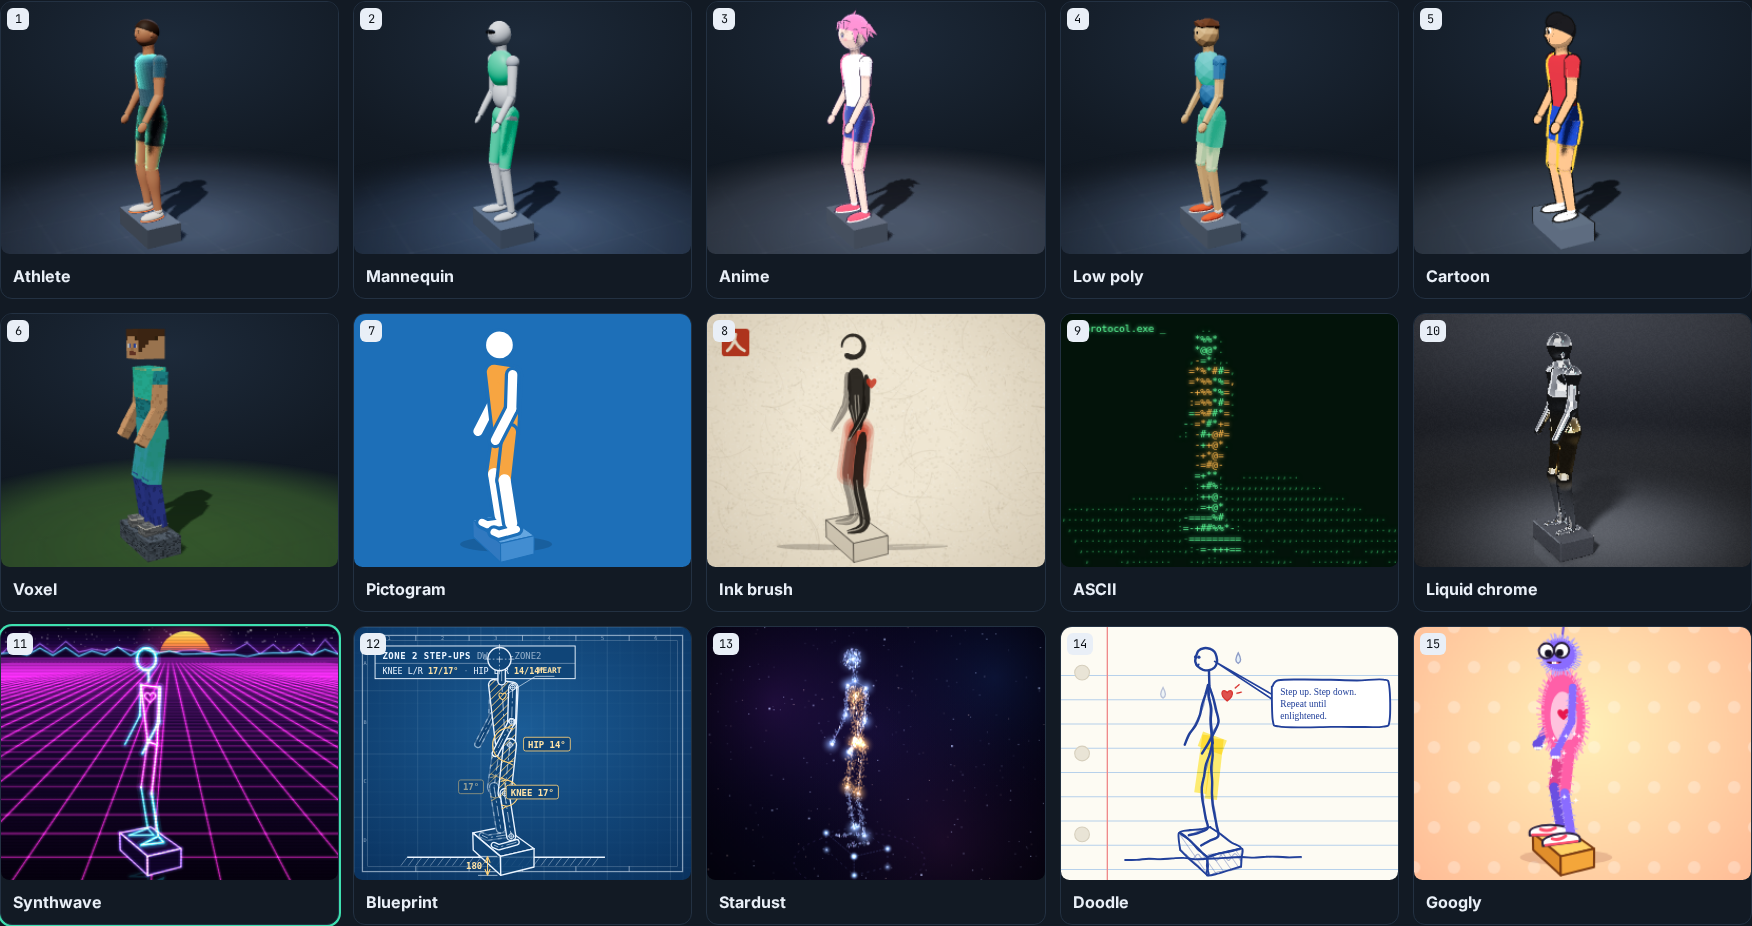
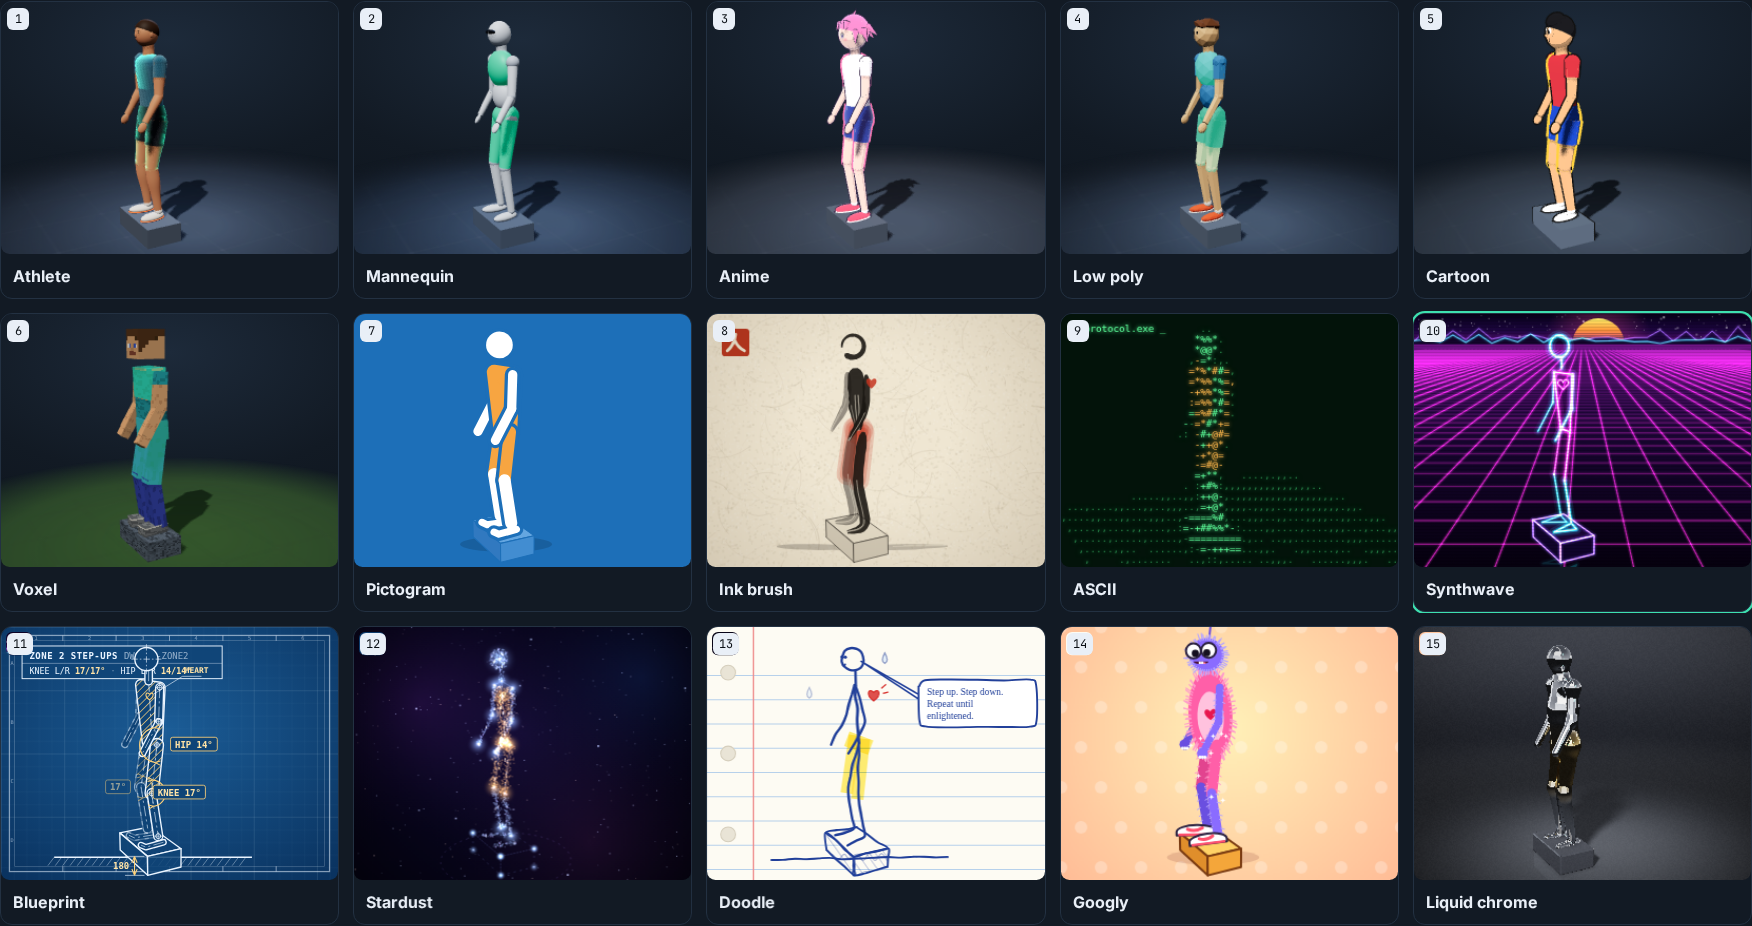
Move Liquid Chrome to the end

diff --git a/public/js/anim-styles.js b/public/js/anim-styles.js
@@ -21,12 +21,12 @@ export const ANIM_STYLES = [
   { id: "pictogram", name: "Pictogram", tech: "svg", after: "Otl Aicher's 1972 Munich Olympics pictograms", blurb: "A white sign figure on a blue tile: even bars for limbs, a floating round head, the worked muscles in orange. Drawn as SVG." },
   { id: "ink", name: "Ink brush", tech: "canvas", after: "Japanese sumi-e painting", blurb: "Brush strokes on rice paper that leave fading ink trails, an ensō circle for the head and red washes on the worked muscles. Drawn on a 2D canvas." },
   { id: "ascii", name: "ASCII", tech: "text", after: "Old green-screen terminals", blurb: "The figure typed out in characters on a glowing CRT, with a floor grid; the worked muscles in amber. Drawn as text." },
-  { id: "chrome", name: "Liquid chrome", tech: "shader", after: "Liquid-metal studio renders", blurb: "A mirror-finish body that flows like poured metal, reflecting the studio, the floor and itself; gold where the muscles work. Ray-marched in one WebGL shader." },
   { id: "synthwave", name: "Synthwave", tech: "canvas", after: "1980s retro-futurism", blurb: "Neon tubes on a scrolling grid under a striped sunset, mirrored on a wet floor; the worked muscles in hot pink. Drawn on a 2D canvas." },
   { id: "blueprint", name: "Blueprint", tech: "svg", after: "Engineering drawings", blurb: "A technical drawing that measures you: live knee, hip and elbow angles, centre lines, hatched muscles, steps and boxes dimensioned and a title block naming the exercise. Drawn as SVG." },
   { id: "stardust", name: "Stardust", tech: "canvas", after: "Long-exposure light painting", blurb: "A body of about 1,800 particles drifting in deep space, trailing light as they move; golden where the muscles work. Drawn on a 2D canvas." },
   { id: "doodle", name: "Doodle", tech: "svg", fun: true, after: "Margin doodles in a school notebook", blurb: "A wobbly biro stick figure on lined paper with highlighter on the worked muscles, sweat drops and opinions about every exercise. Drawn as SVG." },
   { id: "googly", name: "Googly", tech: "canvas", fun: true, after: "Felt puppets", blurb: "A fuzzy monster in huge trainers whose googly eyes rattle with real physics on every move. Drawn on a 2D canvas." },
+  { id: "chrome", name: "Liquid chrome", tech: "shader", after: "Liquid-metal studio renders", blurb: "A mirror-finish body that flows like poured metal, reflecting the studio, the floor and itself; gold where the muscles work. Ray-marched in one WebGL shader." },
 ];
 
 // The style until you pick one.

diff --git a/README.md b/README.md
@@ -163,12 +163,12 @@ Every style plays the same movement: the stage works out the skeleton and the ca
 | 7 | **Pictogram** | SVG | A white sign figure on a blue tile after Otl Aicher's 1972 Munich Olympics pictograms; the worked muscles in orange, a heart on the chest for cardio. |
 | 8 | **Ink brush** | 2D canvas | Sumi-e brush strokes on rice paper that leave fading ink trails, an ensō circle for the head, vermilion washes on the worked muscles. |
 | 9 | **ASCII** | Text | The figure typed out in characters on a green CRT, with a floor grid; the worked muscles in amber. |
-| 10 | **Liquid chrome** | WebGL shader | A mirror-finish body that flows like poured metal, ray-marched per pixel in one fragment shader on plain WebGL: capsules melted together, reflections of the studio, the floor and itself, soft shadows, gold where the muscles work. It lowers its resolution by itself on slow devices. |
-| 11 | **Synthwave** | 2D canvas | Neon tubes on a magenta grid that scrolls toward you in true perspective, a striped sun behind wireframe mountains, a reflection on the wet floor; the worked muscles in hot pink. |
-| 12 | **Blueprint** | SVG | An engineering drawing that measures you as you move: live knee and hip angle dimensions, readouts of both knees, hips and elbows, hatched muscles, dash-dot centre lines, hidden lines dashed, the height of a step or box dimensioned, and a title block naming the exercise. |
-| 13 | **Stardust** | 2D canvas | About 1,800 particles in deep space, each chasing its own spot on the body with its own lag, so the moving parts smear into light trails; the joints shine as a constellation. |
-| 14 | **Doodle** (funny) | SVG | A biro stick figure in a school notebook, its lines wobbling like hand-drawn animation: highlighter on the worked muscles, a face that strains on the way up, flying sweat, motion lines and a speech bubble with opinions about each kind of exercise. |
-| 15 | **Googly** (funny) | 2D canvas | A fuzzy purple monster in enormous trainers whose googly eyes run on real physics (every jolt of the head throws the pupils about), with a wobbly antenna and buck teeth; the worked muscles turn sparkling pink, and cardio beats a heart on its belly. |
+| 10 | **Synthwave** | 2D canvas | Neon tubes on a magenta grid that scrolls toward you in true perspective, a striped sun behind wireframe mountains, a reflection on the wet floor; the worked muscles in hot pink. |
+| 11 | **Blueprint** | SVG | An engineering drawing that measures you as you move: live knee and hip angle dimensions, readouts of both knees, hips and elbows, hatched muscles, dash-dot centre lines, hidden lines dashed, the height of a step or box dimensioned, and a title block naming the exercise. |
+| 12 | **Stardust** | 2D canvas | About 1,800 particles in deep space, each chasing its own spot on the body with its own lag, so the moving parts smear into light trails; the joints shine as a constellation. |
+| 13 | **Doodle** (funny) | SVG | A biro stick figure in a school notebook, its lines wobbling like hand-drawn animation: highlighter on the worked muscles, a face that strains on the way up, flying sweat, motion lines and a speech bubble with opinions about each kind of exercise. |
+| 14 | **Googly** (funny) | 2D canvas | A fuzzy purple monster in enormous trainers whose googly eyes run on real physics (every jolt of the head throws the pupils about), with a wobbly antenna and buck teeth; the worked muscles turn sparkling pink, and cardio beats a heart on its belly. |
+| 15 | **Liquid chrome** | WebGL shader | A mirror-finish body that flows like poured metal, ray-marched per pixel in one fragment shader on plain WebGL: capsules melted together, reflections of the studio, the floor and itself, soft shadows, gold where the muscles work. It lowers its resolution by itself on slow devices. |
 
 ![The fifteen animation styles previewed on one exercise](docs/screenshots/anim-styles.png)
 

diff --git a/CHANGELOG.md b/CHANGELOG.md
@@ -1,5 +1,10 @@
 # Changelog
 
+## [1.11.1] - 2026-10-15
+
+### Changed
+- Liquid chrome now appears last in the animation style pickers.
+
 ## [1.11.0] - 2026-10-15
 
 ### Added
